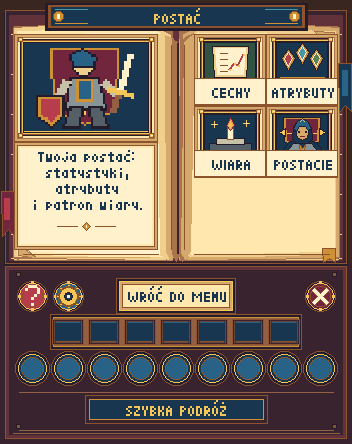
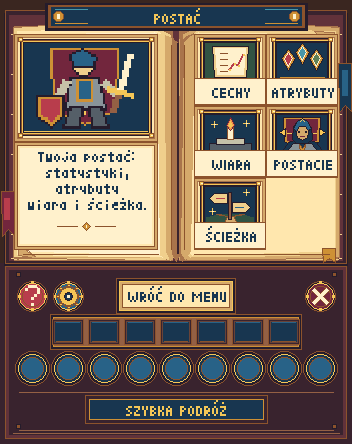
Ksiega: kafel Specjalizacja (Sciezka) w Q -> Postac
Dlaczego: decyzja wlasciciela 16.11 ("2. tak") - gracz nie musi znac /class; zgodnie z
zasada "dopisanie funkcji to dopisanie kafelka". Piaty kafel na stronie Postac (sloty
41,42,50,51), trzy stany DeluxeMenus: przed 10. poz. / wybor (klik -> /class) / wybrana.
Generator rysuj_strony.py: rysunek drogowskazu, stale pozycje kafli hub_postac,
cwiartki 3-4 zapisywane jako RGBA (jak na world1 od 13.10). Inne strony bez zmian
(sprawdzone pikselowo z world1).

Jak sprawdzono: klon spec-rozkaz, bot testy/specjalizacja-kafel.js akolita 6/6 i ninja
6/6 (konto bez OP, Q -> Postac -> kafel -> okno MMOCore -> potwierdzenie -> stan
"wybrana"); klient QA: zrzuty trzech stanow i okna "Wybierz specjalizacje";
MSPT z otwartym menu 1,3 ms (bez zmian).

Cofniecie: backups/spec-rozkaz-klawisze-20261116/cofnij.sh (stary hub_postac.yml i tekstury).

Changed region(s): [[0.5312, 0.3806, 0.7812, 0.5856], [0.0625, 0.4392, 0.4062, 0.4977]]

diff --git a/MCMMORPG/plugin-src/ksiega-postaci/wdrozenie/menu-ksiega/testy/specjalizacja-kafel.js b/MCMMORPG/plugin-src/ksiega-postaci/wdrozenie/menu-ksiega/testy/specjalizacja-kafel.js
@@ -1,0 +1,72 @@
+'use strict';
+// Kafel "Ścieżka" (specjalizacja) w menu Q -> Postać (hub_postac.yml, sloty 41,42,50,51). Droga gracza bez OP:
+//   poz. 1: Q -> Postać -> kafel w stanie "zablokowana" (klik nic nie otwiera);
+//   poz. 10 (+1 punkt klasy z exp-tables): kafel "Kliknij: wybierz specjalizację" -> okno MMOCore
+//   "Wybierz specjalizację" -> kafel klasy -> potwierdzenie (slot 12) -> klasa = specjalizacja;
+//   ponownie Q -> Postać: kafel "wybrana" z nazwą klasy.
+// RCON tylko: EXP (mmocore admin exp give) i odczyt placeholderów.
+// Uruchom: /opt/docker/mc/narzedzia/bot/run.sh <klon --z-kreatorem> <ten plik> [akolita|ninja]
+// Klon: lp group default permission set mmocore.class-select true (klon nie ma bazy LuckPerms).
+const { scenariusz, postac, stan, obserwuj, sleep, otworzHub, kliknijSlot, czekajNaOkno, tytulOkna, sloty } = require('/bot/lib');
+
+const TRYB = process.argv[2] || 'akolita';
+const KLASA = { akolita: { rasa: 0, klasa: 2 }, ninja: { rasa: 1, klasa: 3 } }[TRYB];   // rasa/archetyp jak w kreatorze
+const czysc = s => String(s ?? '').replace(/§./g, '').trim();
+const lore = (w, slot) => {
+  const it = w && w.slots[slot]; const raw = (it && it.customLore) || [];
+  // linia lore = NBT {type:'compound', value:{text|extra:...}} -> zbieramy wszystkie pola text (string) w kolejnosci
+  const teksty = n => { if (n == null) return ''; if (typeof n === 'string') return n; if (Array.isArray(n)) return n.map(teksty).join('');
+    if (typeof n === 'object') { if (n.type === 'string') return n.value; if ('value' in n && n.type) return teksty(n.value);
+      return (n.text ? teksty(n.text) : '') + (n.extra ? teksty(n.extra) : ''); } return ''; };
+  return raw.map(l => czysc(teksty(typeof l === 'string' ? (() => { try { return JSON.parse(l); } catch { return l; } })() : l))).join(' / ');
+};
+
+scenariusz('specjalizacja-kafel-' + TRYB, async ({ w, polacz, rcon }) => {
+  const nick = 'KsSp' + (Date.now() % 100000);
+  const bot = await polacz({ nick }); bot._ekran = obserwuj(bot);
+  await postac.wejdz(bot, { imie: 'Sp' + (Date.now() % 10000), rasa: KLASA.rasa, klasa: KLASA.klasa });
+  await sleep(3000);
+  const ph = async p => czysc(await stan.papi(nick, p));
+  const postacOkno = async () => {
+    const hub = await otworzHub(bot);
+    return kliknijSlot(bot, 18, { tytul: null, ms: 5000 });
+  };
+  const kafel = (o) => { const k = sloty(o).find(s => s.slot === 41); return k ? { nazwa: czysc(k.nazwa), lore: lore(o, 41) } : null; };
+
+  // 1. przed 10. poziomem
+  let o = await postacOkno(); let k = kafel(o);
+  console.log('poz', await ph('%mmocore_level%'), 'okno', tytulOkna(o), 'kafel', JSON.stringify(k));
+  w.sprawdz('kafel-zablokowany', !!k && /10\. poziomie/.test(k.lore), JSON.stringify(k));
+  await bot.clickWindow(41, 0, 0); await sleep(1500);
+  w.sprawdz('kafel-zablokowany-nic-nie-otwiera', bot.currentWindow === o, `okno po kliku: ${tytulOkna(bot.currentWindow)}`);
+  bot.closeWindow(o); await sleep(500);
+
+  // 2. poziom 10 -> wybór
+  await rcon(`mmocore admin exp give ${nick} main 200000`); await sleep(2500);
+  const poz = await ph('%mmocore_level%'), pk = await ph('%mmocore_class_points%');
+  o = await postacOkno(); k = kafel(o);
+  console.log('poz', poz, 'punkty', pk, 'kafel', JSON.stringify(k));
+  w.sprawdz('kafel-aktywny-na-10', poz === '10' && !!k && /wybierz specjalizac/i.test(k.lore), `poz ${poz}, punkty ${pk}, ${JSON.stringify(k)}`);
+  const spec = await kliknijSlot(bot, 41, { ms: 6000 }).catch(e => { console.log(e.message); return null; });
+  const kafle = sloty(spec).map(s => [s.slot, czysc(s.nazwa)]);
+  console.log('okno po kafelku:', tytulOkna(spec), JSON.stringify(kafle));
+  w.sprawdz('kafel-otwiera-okno-specjalizacji', !!spec && /specjaliz/i.test(tytulOkna(spec) || ''), `okno "${tytulOkna(spec)}"`);
+  const klasaPrzed = await ph('%mmocore_class_id%');
+  const wyb = spec && sloty(spec).find(s => !/Wróć/i.test(czysc(s.nazwa)));   // pierwsza ścieżka (gracz wybiera jedną z dwóch)
+  console.log('wybieram:', wyb && czysc(wyb.nazwa));
+  if (wyb) {
+    const pot = await kliknijSlot(bot, wyb.slot, { ms: 5000 }).catch(() => null);
+    console.log('potwierdzenie:', tytulOkna(pot));
+    if (pot) { await bot.clickWindow(12, 0, 0); await sleep(3000); }
+  }
+  if (bot.currentWindow) bot.closeWindow(bot.currentWindow);
+  const kl = await ph('%mmocore_class_id%'), pk2 = await ph('%mmocore_class_points%');
+  w.sprawdz('specjalizacja-wybrana-przez-kafel', !!wyb && kl && kl !== klasaPrzed && pk2 === '0', `klasa ${klasaPrzed} -> ${kl}, punkty klasy ${pk} -> ${pk2}`);
+
+  // 3. po wyborze
+  await sleep(1000);
+  o = await postacOkno(); k = kafel(o);
+  console.log('po wyborze kafel', JSON.stringify(k));
+  w.sprawdz('kafel-po-wyborze', !!k && /Twoja ścieżka/.test(k.lore) && !/wybierz specjalizac/i.test(k.lore), JSON.stringify(k));
+  bot.closeWindow(o);
+});

diff --git a/MCMMORPG/plugin-src/ksiega-postaci/wdrozenie/menu-ksiega/strony/rysuj_strony.py b/MCMMORPG/plugin-src/ksiega-postaci/wdrozenie/menu-ksiega/strony/rysuj_strony.py
@@ -41,6 +41,18 @@ def change_character(x,y):
     G([(x+3,y+18),(x+9,y+14),(x+9,y+22)],'gold2','ink')
     G([(x+49,y+18),(x+43,y+14),(x+43,y+22)],'gold2','ink')
 
+def specialization(x,y):
+    # Drogowskaz na rozwidleniu: specjalizacja = wybor jednej z dwoch drog na 10. poziomie.
+    field(x,y,'blue0')
+    G([(x+2,y+38),(x+2,y+31),(x+14,y+28),(x+38,y+28),(x+49,y+31),(x+49,y+38)],'green0')
+    G([(x+19,y+38),(x+23,y+30),(x+12,y+28),(x+16,y+28),(x+26,y+31),(x+36,y+28),(x+40,y+28),(x+29,y+30),(x+33,y+38)],'paper1','gold0')
+    R((x+24,y+6,x+27,y+33),'wood2','ink')
+    G([(x+5,y+12),(x+10,y+7),(x+23,y+7),(x+23,y+17),(x+10,y+17)],'paper2','ink')
+    L([(x+12,y+12),(x+20,y+12)],'red1')
+    G([(x+28,y+16),(x+41,y+16),(x+46,y+21),(x+41,y+26),(x+28,y+26)],'paper2','ink')
+    L([(x+31,y+21),(x+39,y+21)],'blue1')
+    W.star(x+42,y+6,'gold2'); W.star(x+8,y+25,'gold2')
+
 def skill(x,y):
     field(x,y,'wood1')
     G([(x+4,y+28),(x+17,y+24),(x+26,y+29),(x+36,y+24),(x+49,y+28),(x+46,y+36),(x+27,y+33),(x+6,y+36)],'paper2','ink')
@@ -303,7 +315,7 @@ def hero_travel(x,y):
     G([(x+41,y+19),(x+43,y+24),(x+41,y+28),(x+39,y+24)],'red1','ink')
 
 DESCRIPTIONS = {
-    'hub_postac': ('Twoja postać:', 'statystyki, atrybuty', 'i patron wiary.'),
+    'hub_postac': ('Twoja postać:', 'statystyki, atrybuty', 'wiara i ścieżka.'),
     'hub_umiejetnosci': ('Rozwijaj zdolności', 'klasy, drzewka', 'i księgę zaklęć.'),
     'hub_ekonomia': ('Kupuj i sprzedawaj.', 'Licytuj z graczami.'),
     'hub_spolecznosc': ('Drużyna, znajomi', 'i gildia razem', 'łatwiej przetrwać.'),
@@ -323,7 +335,7 @@ def description_card(lines, x=14, y=142):
     R((x+72,225,x+72,227),'paper4')
 
 PAGES = [
-    ('hub_postac','Postać',hero_character,[('Statystyki','Statystyki',stats),('Atrybuty','Atrybuty',attributes),('Wiara','Wiara',faith),('Zmień postać','Zmień postać',change_character)]),
+    ('hub_postac','Postać',hero_character,[('Statystyki','Statystyki',stats),('Atrybuty','Atrybuty',attributes),('Wiara','Wiara',faith),('Zmień postać','Zmień postać',change_character),('Specjalizacja','Ścieżka',specialization)]),
     ('hub_umiejetnosci','ZDOLNOŚCI',hero_mage,[('Umiejętności','Umiejętności',skill),('Drzewka rozwoju','Drzewka',tree),('Tryb rzucania','Rzucanie',casting),('Księga zaklęć','Zaklęcia',spellbook)]),
     ('hub_ekonomia','Handel',hero_trade,[('Dom aukcyjny','Aukcje',auction),('Sklep','Sklep',shop),('Skup','Skup',buyback)]),
     ('hub_spolecznosc','DRUŻYNA',hero_social,[('Drużyna','Drużyna',party),('Znajomi','Znajomi',friends),('Gildia','Gildia',guild)]),
@@ -332,7 +344,13 @@ PAGES = [
     ('stolica_podroze','Podróże',hero_travel,[('Loch 001','Loch 001',dungeon),('Kolejne lochy','Dalsze lochy',locked),('Wyspy','Wyspy',islands)]),
 ]
 
-def tile_positions(n):
+# Strona z wlasnym ukladem: 4 kafle jak dotad + specjalizacja pod Wiara (sloty 41,42,50,51).
+POSITIONS = {'hub_postac': [(194,34),(266,34),(194,106),(266,106),(194,178)]}
+
+def tile_positions(n, ident=None):
+    if ident in POSITIONS:
+        assert len(POSITIONS[ident]) == n
+        return POSITIONS[ident]
     if n == 1: return [(230,34)]
     if n == 2: return [(194,34),(266,34)]
     if n == 3: return [(194,34),(266,34),(230,106)]
@@ -382,7 +400,7 @@ def main():
         W.hero_frame(14,34,hero)
         description_card(DESCRIPTIONS[ident])
         placements=[]
-        for (x,y),(label,caption,painter) in zip(tile_positions(len(tiles)),tiles):
+        for (x,y),(label,caption,painter) in zip(tile_positions(len(tiles),ident),tiles):
             W.tile(x,y,label,painter,caption)
             placements.append((x,y,label))
             miniatures.append((ident,label,caption,painter))
@@ -395,7 +413,9 @@ def main():
         dest=OUT/ident; dest.mkdir(exist_ok=True)
         image.save(dest/f'{ident}_2x.png')
         for n,(left,top) in enumerate(((0,0),(176,0),(0,222),(176,222)),1):
-            image.crop((left,top,left+176,top+222)).save(dest/f'{ident}_{n}.png')
+            part=image.crop((left,top,left+176,top+222))
+            # Cwiartki 3-4 na world1 sa RGBA od 13.10 (piksele te same) - zapis jak na serwerze.
+            (part.convert('RGBA') if n>2 else part).save(dest/f'{ident}_{n}.png')
         slot_file(dest,ident,placements)
         codes=[0x4A00+4*i+j for j in range(4)]
         for n,code in enumerate(codes,1):

diff --git a/MCMMORPG/plugin-src/ksiega-postaci/README.md b/MCMMORPG/plugin-src/ksiega-postaci/README.md
@@ -56,6 +56,21 @@ podstronie używają ikon panelu Q, lecz pokazują `podstrony.wstecz-nazwa` i
 działają jak w Q. Na istniejącym serwerze dopisz sekcję `podstrony` ręcznie,
 ponieważ `saveDefaultConfig()` nie uzupełnia istniejącego pliku.
 
+Tła i menu podstron generuje `wdrozenie/menu-ksiega/strony/rysuj_strony.py`
+(uruchamiaj zwykłym `python3`, bez `-I` — Pillow jest pakietem użytkownika; obok
+`menu-ksiega` musi leżeć `mcfont`). Wynik: `strony/out/<strona>/<strona>_1..4.png`
+(ćwiartki 176×222, 3–4 jako RGBA) i `strony/out/dm/<strona>.yml`; sloty kafli w
+`out/<strona>/sloty.txt`. Podpis kafla mieści się w 32 px (`narrow_width`, bez kropek).
+
+Q → Postać ma piąty kafel **Ścieżka** (sloty 41, 42, 50, 51) w trzech stanach
+`view_requirement`/`priority`: przed 10. poziomem opis „Na 10. poziomie wybierzesz…”
+(klik nic nie robi); poziom ≥10 i punkt klasy MMOCore → klik `[player] class`
+(okno „Wybierz specjalizację”, gracz potrzebuje `mmocore.class-select`); po wyborze
+„Twoja ścieżka: <klasa>”. Test botem (droga gracza bez OP, Q → Postać → kafel):
+`wdrozenie/menu-ksiega/testy/specjalizacja-kafel.js akolita|ninja` przez
+`/opt/docker/mc/narzedzia/bot/run.sh <klon --z-kreatorem>`; na klonie najpierw
+`lp group default permission set mmocore.class-select true`.
+
 Do kompilacji potrzeba także `PlaceholderAPI-2.12.2.jar` i `nexo-1.20.jar` z
 `/opt/docker/mc/data/world1/plugins/` (zależności `compileOnly`); runtime ma
 `softdepend` i działa bez nich na materiałach zapasowych. Liczniki bez PAPI
